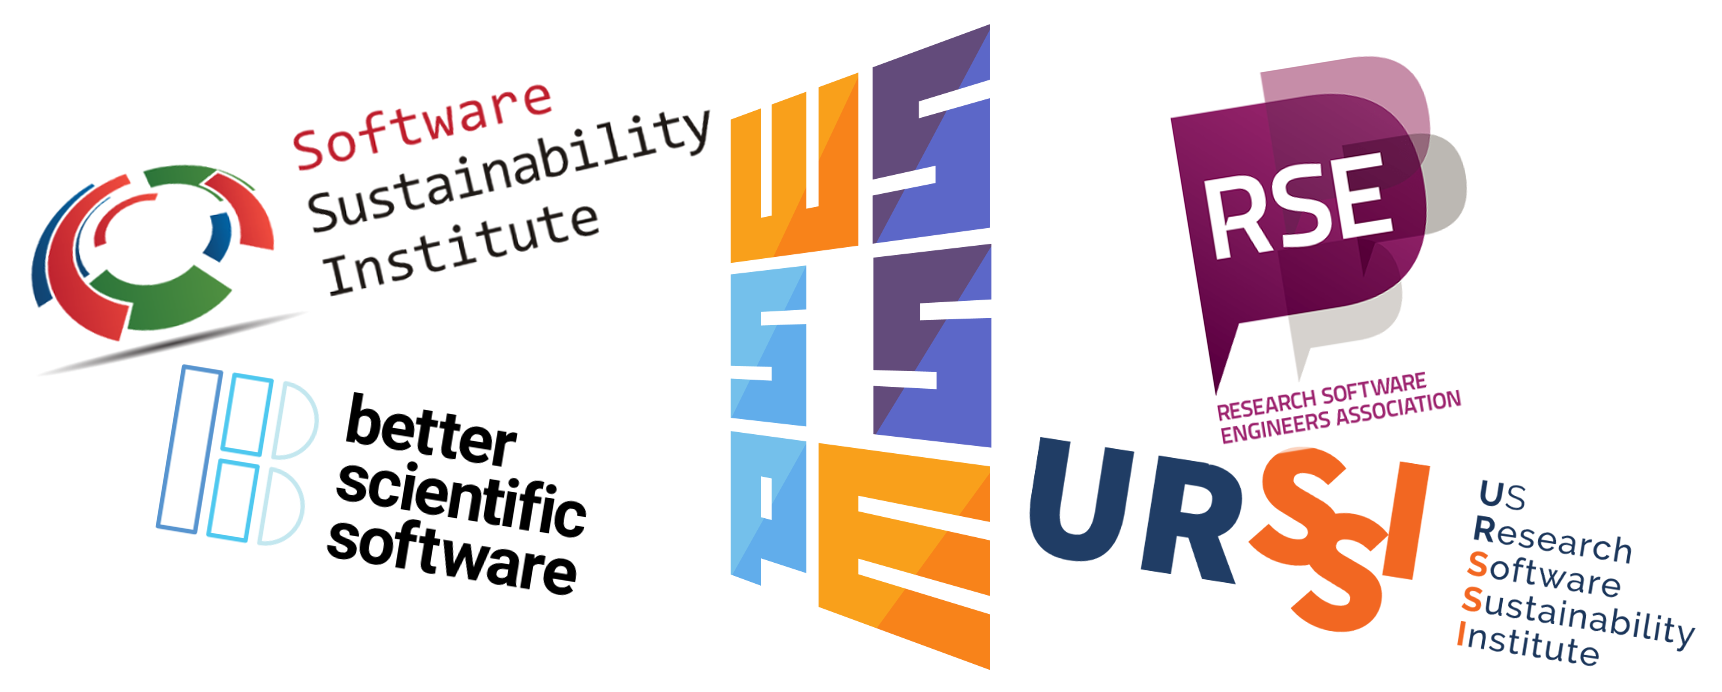
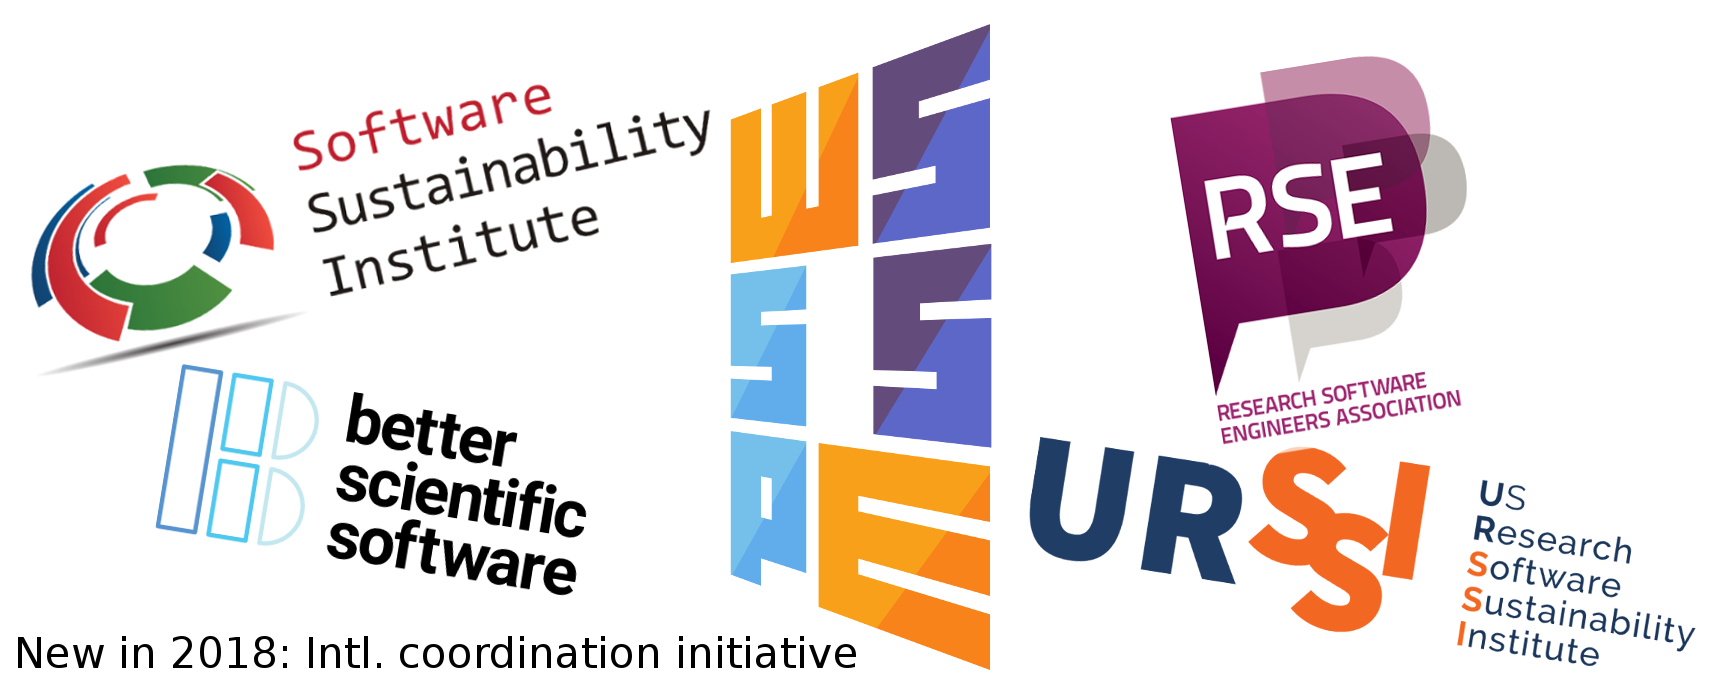
Update actors graphic + add presentation notes

Changed region(s): [[0.0, 0.9104, 0.4925, 0.9711]]

diff --git a/slides.md b/slides.md
@@ -7,6 +7,11 @@ WSSSPE6.1 at IEEE eScience 2018, 29 Oct 2018, Amsterdam, NL
 
 Slides: https://sdruskat.net/wssspe6-1-resosuma/
 
+Note:
+# - Going to talk about a model to record activities in the research software sustainability space
+# - This model can be used to build a classification scheme for research output from the space
+# - And to identify gaps and avoid duplication of efforts
+
 
 
 ## About us
@@ -14,6 +19,9 @@ Slides: https://sdruskat.net/wssspe6-1-resosuma/
 - **Stephan:** RSE (linguistics), Humboldt-Universität zu Berlin; Software Sustainability Institute (SSI) Collaborator
 - **Dan:** Assistant Director for Scientific Software and Applications, 
 National Center for Supercomputing Applications (NCSA); Research Associate Professor (Computer Science, Electrical and Computer Engineering, School of Information Sciences), University of Illinois Urbana-Champaign; Better Scientific Software (BSSw) Fellow
+
+Note:
+# - A few words about us
 
 
 
@@ -24,21 +32,29 @@ Different actors, for example:
 ![](actors.png)
 
 Note:
-- Personen, die in der Wissenschaft arbeiten und Software entwickeln.
-- wenden Methoden aus der Softwaretechnik auf Forschungssoftware an
-- verbinden sie Wissen aus der Softwareentwicklung mit Domänenwissen
-- sorgen so dafür, dass die entstehende Forschungssoftware nutzbar und nachnutzbar ist und nachvollziehbar korrekte Forschungsergebnisse liefert
-- Bei dem Begriff geht es aber auch um die Sichtbarkeit des Tätigkeitsfeldes, Softwareentwicklung in der Wissenschaft
+# - SSI founded in 2010 in the UK
+# - WSSSPE organization and series of workshops
+# - To a certain extent the international RSE community
+# - And a number of new actors: URSSI + Better Scientific Software Community
+# - A new initiative by leaders in the space (Michelle Barker XXXTODO, Dan Katz, Neil Chue Hong) to better coordinate international efforts ("Research Software Alliance")
 
 
 
 ### The research software sustainability space
 
-- Actors conduct research and publish within the space
+- All actors conduct research and publish within the space
 - Efforts are uncoordinated
 - (Desirable) autonomy of activities bears risks: 
 	- duplication of efforts
 	- neglect of specific areas
+
+Note:
+# - All actors publish research in different venues: journals, blogs, etc.
+# - Research feeds back into policy, education, and hiring practices in instutions
+# - Also into educational activities (Carpentries)
+# - Efforts are not coordinated, and perhaps shouldn't be (for reasons of productivity)
+# - This autonomy bears the risk of duplication of efforts / neglect of specific areas
+
 
 
 
@@ -47,10 +63,15 @@ Note:
 <i class="fa fa-lightbulb"></i> **Map activities in the research software 
 sustainability space**
 
-<i class="fa fa-lightbulb"></i> **Classify efforts (past, present, future) according to map**
+<i class="fa fa-lightbulb"></i> **Classify efforts (past, present, future) according to mapping**
 
-- Specifies involved parties and activities
 - Application reduces risks (duplication of efforts, neglect of areas)
+- Specifies involved parties and activities
+
+Note:
+# - Idea is to map activities in the research software sustainability space
+# - And use this mapping to classify existing efforts and outputs
+# - In order to identify gaps, and avoid duplication
 
 
 
@@ -59,14 +80,25 @@ sustainability space**
 - Existing classification schemes (e.g., ACM CCS) not suitable
 - Must reflect configuration of agents and activities
 
+Note:
+# - There are existing classification schemes for software-related activities
+# - For example: ACM XXXTODO XXXOTHERS?XXX
+# - The problem with those is that they do not reflect the configuration of the research software sustainability space in terms of agents and activities
+# - I'll come to the mapping proper
 
 
-### Similar work by Jay & Haines for [WSSSPE5.1 report](https://arxiv.org/abs/1807.07387)
+
+### Similar work by Jay & Haines
 
 <img src="jors.png" style="width: 50%">
 
+Jay & Haines for WSSSPE5.1 report ([arxiv.org/abs/1807.07387](https://arxiv.org/abs/1807.07387)), cf.:  
 Jay C, Haines R. WSSSPE 5.1 - Data for speed blog analysis; 2018.
 Available from: https://doi.org/10.5281/zenodo.1305091.
+
+Note:
+# - Caroline Jay and Rob Haines have classified activities as described in the WSSSPE 5.1 speed blogs with a mixed thematic/framework-analytic approach
+# - Similar method: Took an existing schematic and refined it slightly, then coded blog articles
 
 
 
@@ -83,6 +115,11 @@ https://doi.org/10.6084/m9.figshare.6081248.v1</td>
 </tr>
 </table>
 
+Note:
+# - This is the original schematic that both Caroline & Rob and I started from
+# - Used by Dan in his talk at the SSI Collaborations Workshop in XXXTODO
+# - Very general nodes representing agents, and edges that cluster activity verbs
+
 
 
 ### Research software sustainability mapping v2
@@ -90,9 +127,15 @@ https://doi.org/10.6084/m9.figshare.6081248.v1</td>
 #### Optimization of v1
 
 - Comprehensiveness
-- Disassembly of combined activities
 - Increased resolution
+- Disassembly of combined activities
 - Filling gaps
+
+Note:
+# - I have started to optimized this schematic for to build it into a more comprehensive schematic
+# - Increased resolution by splitting the concepts of some nodes
+# - And disassembling combined activities
+# - Finally filled some gaps
 
 
 ### Research software sustainability mapping v2
@@ -101,6 +144,12 @@ https://doi.org/10.6084/m9.figshare.6081248.v1</td>
 
 1. Initial formalization (enables classification)
 2. Refinement
+
+Note:
+# - What have I actually done?
+# - Formalized the schematic in a first step
+# - Formalization enables actual classification of outputs
+# - Then refined the model
 
 
 ### Research software sustainability mapping v2
@@ -118,10 +167,16 @@ https://doi.org/10.6084/m9.figshare.6081248.v1</td>
 
 S. Druskat, “resosuma: 0.2.0,” Jun. 2018. [Online]. Available: https://doi.org/10.5281/zenodo.1304254
 
+Note:
+# - XXX HERE
+
 
 ### Research software sustainability mapping v2
 
 <img src="graph-katz.png" style="width: 90%;">
+
+Note:
+# - This CSV can be transformed to a directed graph with a simple Python package
 
 
 
@@ -136,6 +191,9 @@ S. Druskat, “resosuma: 0.2.0,” Jun. 2018. [Online]. Available: https://doi.o
 <i class="fa fa-exclamation-triangle"></i> Based on introspection,  
 future work to include structured literature analysis
 
+Note:
+# - In a second step I havee then refined the model in the CSV
+
 
 ### Research software sustainability mapping v3
 
@@ -143,11 +201,15 @@ future work to include structured literature analysis
 
 - *People* > *Research Software Engineers*, *Researchers*, *Educators*
 - *Publishers, repositories, indices* > different nodes, respective activities
-- *Software* > *Reearch software*, *Supporting software*
+- *Software* > *Research software*, *Supporting software*
 - *are* introduced: *RSEs* + *Researchers* may be same person in different roles
-- Further activities added: *own* (*RSEs*-*Research software*)
+- Further activities added: *own* (*RSEs*-*own*-*Research software*)
 
 S. Druskat, D. S. Katz, and N. Chue Hong, “research-software/resosuma-data: 0.4.0,” Sep. 2018. [Online]. Available: https://doi.org/10.5281/zenodo.1419768
+
+Note:
+# - Split nodes, e.g., the "People" node.
+# - Note different choice of roles than Jay & Haines
 
 
 ### Research software sustainability mapping v3
@@ -167,8 +229,16 @@ S. Druskat, D. S. Katz, and N. Chue Hong, “research-software/resosuma-data: 0.
 	- Handles? *resosuma:rse-dev-rso*?
 - Classify efforts (tag publications)
 - Diversify scheme granularity?
-- Multipliers (program committees) to ask for tags in keywords
+- Multipliers (editors/program committees) to ask for tags in keywords
 - Create a central resource for resosuma (website?)
+
+
+
+### You're invited to collaborate!
+
+Review, discuss and contribute to the model:
+
+<i class="fa fa-github"/></i> https://github.com/research-software/resosuma-data
 
 
 
